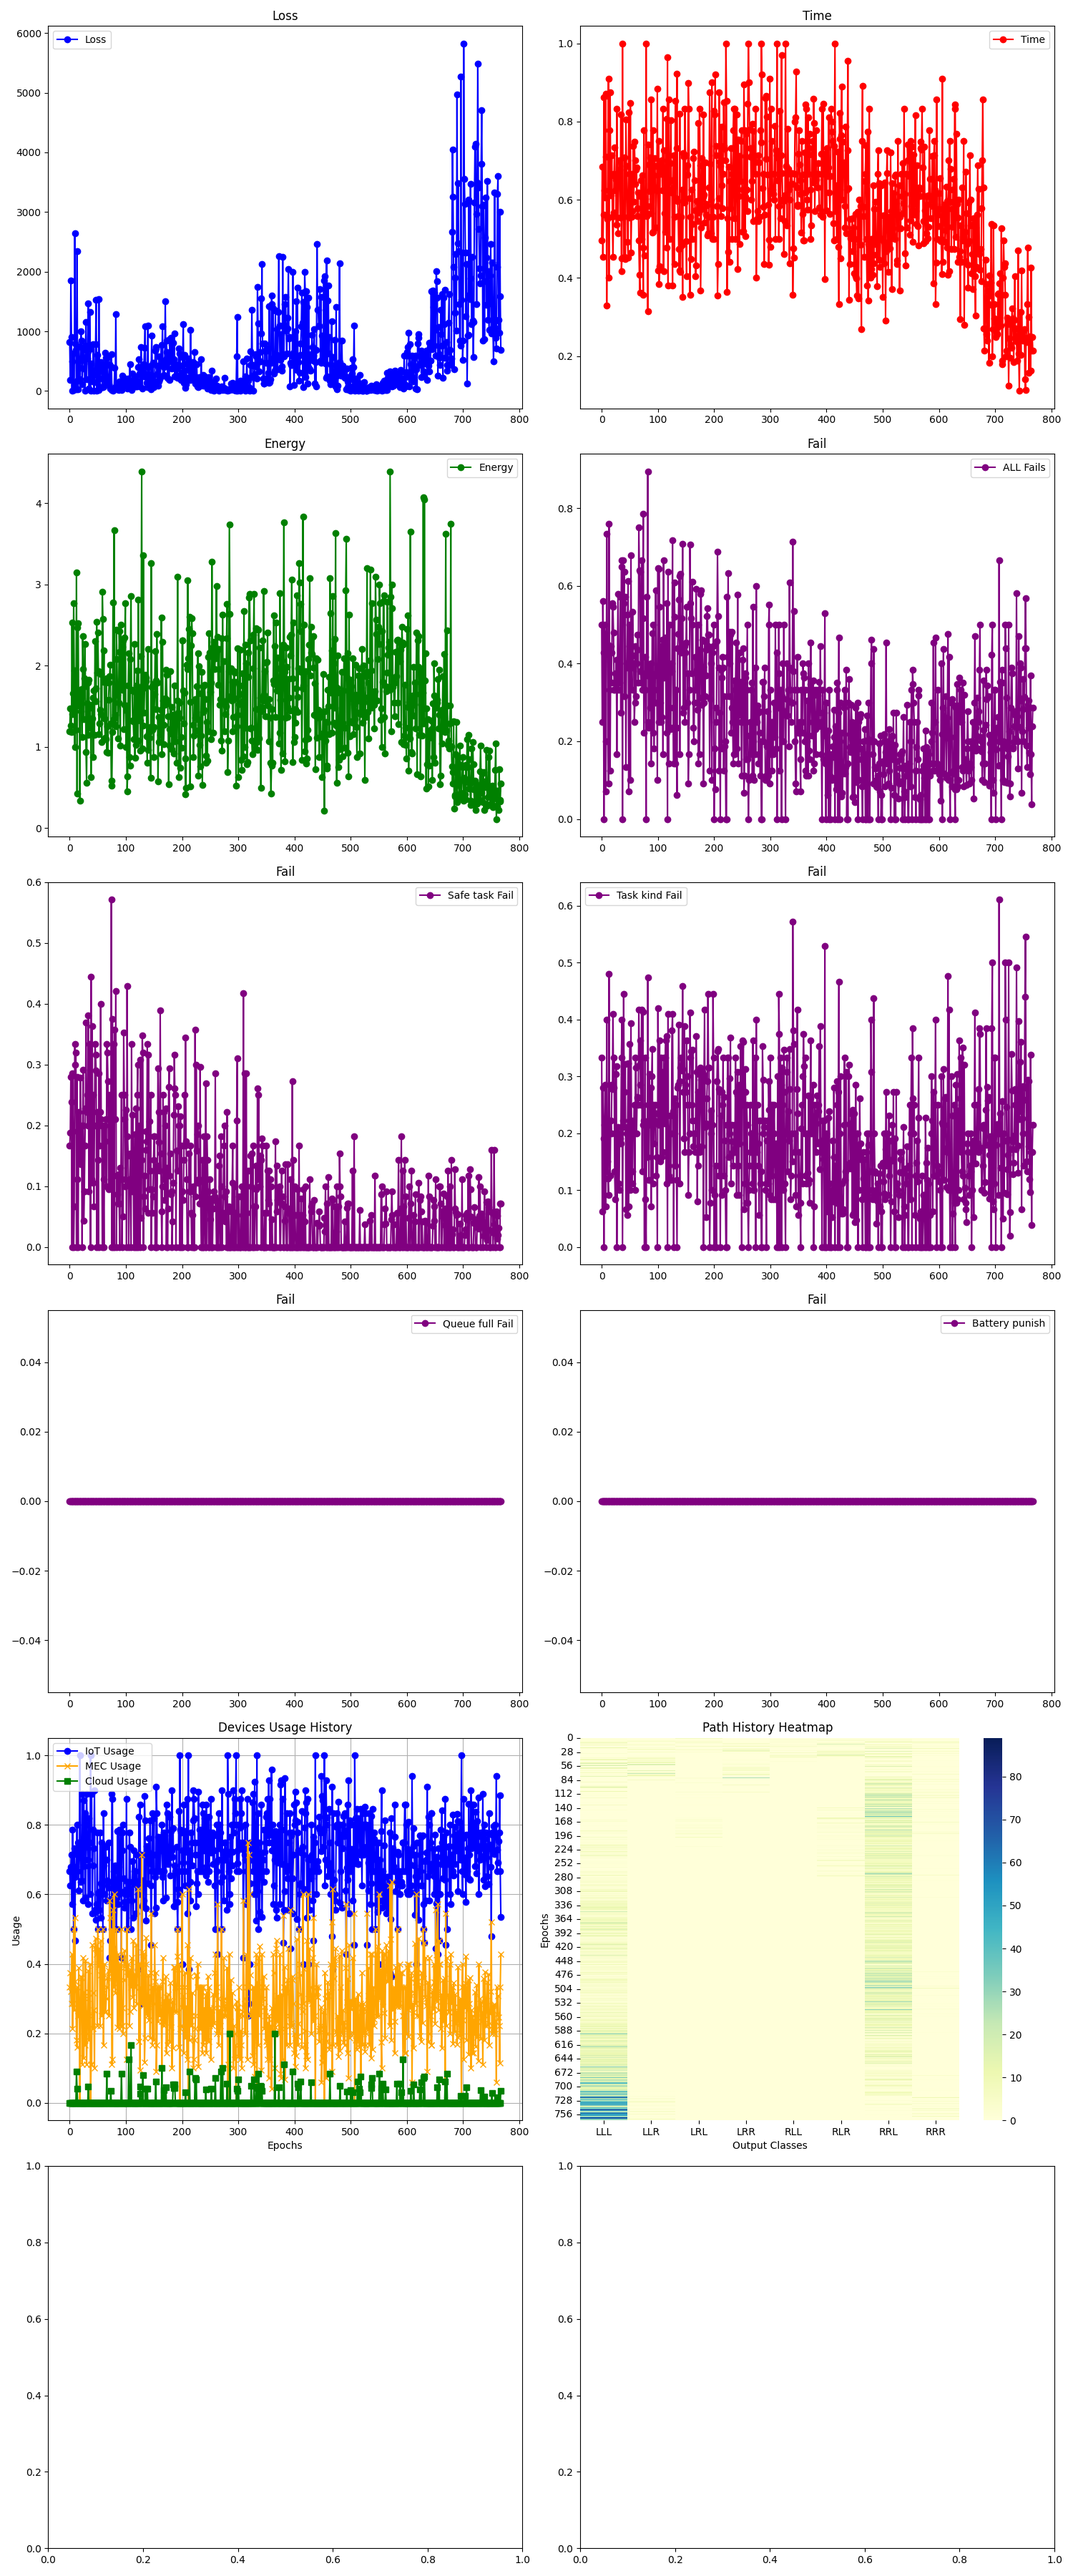
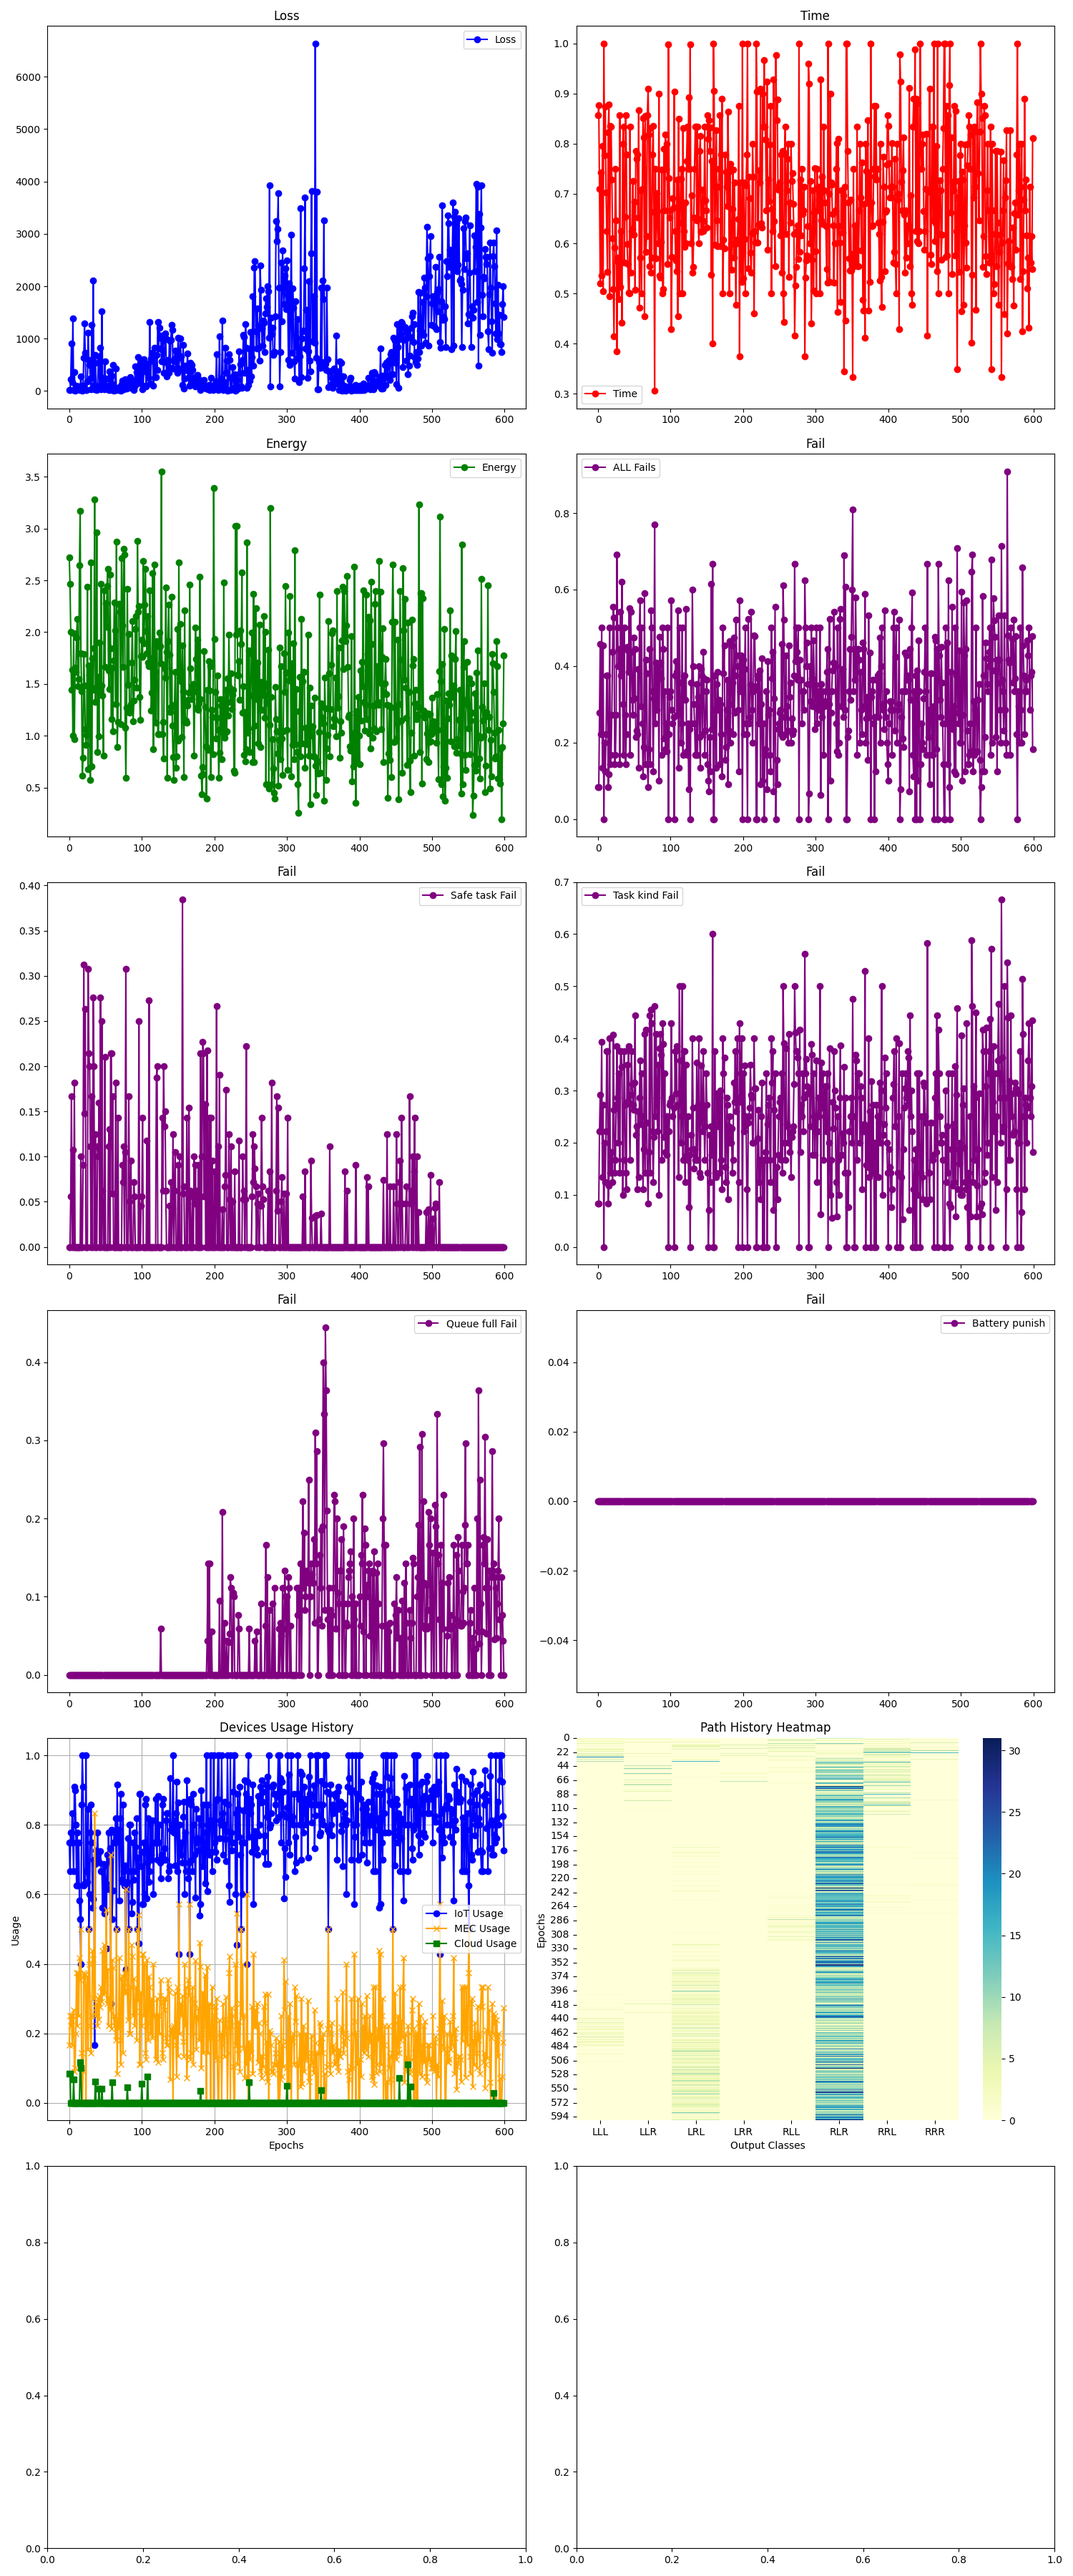
bugfix for increasing time + objectives

diff --git a/environment/state.py b/environment/state.py
@@ -68,16 +68,26 @@ class State:
         except:
             return
     
-    def clean_tasks(self):
+    def clean_jobs(self):
+        return
+        removing_items = []
         for job in self.jobs.values():
-            for task in job['runningTasks']:
-                self.__task_finished(task)
+            if job['remainingDeadline'] < 0 and job['id'] not in removing_items:
+                print("removed deadline")
+                removing_items.append(job['id'])
+                
+        for item in removing_items:
+            if item in self.jobs.keys():
+                del self.jobs[item]
+        
     ##### Functionality
     def apply_action(self, pe_ID, core_i, freq, volt, task_ID, utilization=None, diversity=None, gin=None):
         try:
             pe_dict = self.PEs[pe_ID]
             pe = self.db_devices[pe_ID]
             task = self.db_tasks[task_ID]
+            if task["job_id"] not in self.jobs.keys():
+                return 0, [0,0,0,0], 0, 0
             job_dict = self.jobs[task["job_id"]]
         except:
             print("Retry apply action")
@@ -98,7 +108,7 @@ class State:
             if task["task_kind"] not in pe["acceptable_tasks"]:
                 fail_flags[1] = 1
             if queue_index == -1 and core_index == -1:
-                return sum(fail_flags) * reward_function(punish=True), fail_flags, 0, 0
+                fail_flags[2] = 1
 
             if sum(fail_flags) > 0:
                 return sum(fail_flags) * reward_function(punish=True), fail_flags, 0, 0
@@ -157,33 +167,34 @@ class State:
         #   4. calling the preprocessor to update the agent queue based on the state
         self.window_manager.run()
         self.__update_jobs(manager)
+        # self.clean_jobs()
         self.__update_PEs()
         self.preprocessor.run()
 
         # displaying the live status of the state
-        if self.display:
+        if self.display :
             print("PEs::")
             pe_data = {}
-            for pe_id, pe in self.get_PEs().items():
+            for pe_id, pe in enumerate(self.PEs):
                 pe_data[pe_id] = {
-                    "id": pe["id"],
-                    "type": pe["type"],
-                    "batteryLevel": pe["batteryLevel"],
-                    "occupiedCores": list(pe["occupiedCores"]),
-                    "energyConsumption": list(pe["energyConsumption"]),
+                    "id": pe_id,
+                    # "type": pe["type"],
+                    # "batteryLevel": pe["batteryLevel"],
+                    # "occupiedCores": list(pe["occupiedCores"]),
+                    # "energyConsumption": list(pe["energyConsumption"]),
                     "queue": [list(core_queue) for core_queue in pe["queue"]]
                 }
             print('\033[94m', pd.DataFrame(pe_data), '\033[0m', '\n')
 
             print("Jobs::")
             job_data = {}
-            for job_id, job in self.get_jobs().items():
+            for job_id, job in self.jobs.items():
                 job_data[job_id] = {
-                    "task_count": job["task_count"],
-                    "finishedTasks": list(job["finishedTasks"]),
+                    # "task_count": job["task_count"],
+                    # "finishedTasks": list(job["finishedTasks"]),
                     "runningTasks": list(job["runningTasks"]),
-                    "remainingTasks": list(job["remainingTasks"]),
-                    "remainingDeadline": job["remainingDeadline"]
+                    # "remainingTasks": list(job["remainingTasks"]),
+                    # "remainingDeadline": job["remainingDeadline"]
                 }
             print('\033[92m', pd.DataFrame(job_data), '\033[0m', "\n")
 
@@ -199,12 +210,18 @@ class State:
         self.__add_new_active_jobs(self.task_window, manager)
 
         removing_items = []
-        for job in self.jobs.values():
+        for job_id in list(self.jobs.keys()):
+            job = self.jobs[job_id]
             # decreasing the deadline of the jobs by 1 cycle
-            job["remainingDeadline"] -= 1
+            old_deadline = job["remainingDeadline"]
+            updated_job = dict(job)
+            updated_job["remainingDeadline"] = old_deadline - 1
+            
+            # Replace the old dictionary in the manager.dict()
+            self.jobs[job_id] = updated_job
 
             # removing the finished jobs from the state
-            if  len(job["runningTasks"]) + len(job["finishedTasks"]) == job["task_count"]:
+            if  len(job["finishedTasks"]) == job["task_count"]:
                 removing_items.append(job['id'])
 
         for item in removing_items:
@@ -268,7 +285,7 @@ class State:
         for core_index, core_queue in enumerate(pe["queue"]):
             first_task = core_queue[0]
 
-            if first_task[0] == 0:
+            if first_task[0] <= 0:
                 # Removing the finished task from queue
                 if first_task[1] != -1:
                     self.__task_finished(first_task[1])
@@ -316,7 +333,6 @@ class State:
             if pe['type'] == 'cloud' or True:
                 for core_index, queue in enumerate(pe["queue"]):
                     if queue[0][1] == -1:
-                        
                         return 0, core_index, 0
             return -1, -1, -1
         except:

diff --git a/configs.py b/configs.py
@@ -1,6 +1,6 @@
 jobs_config = {
     "num_jobs": 10000,
-    "max_deadline": 2000,
+    "max_deadline": 100,
     "max_task_per_depth": 2,
     "max_depth": 5,
     "task": {
@@ -8,7 +8,7 @@ jobs_config = {
         "input_size": [1, 1001],
         "output_size": [1, 1001],
         "computational_load": [1, 1001],
-        "safe_measurement": [0.5, 0.5],
+        "safe_measurement": [0.8, 0.2],
         "task_kinds": [1, 2, 3, 4]
     },
     "max_num_parents_dag": 1,
@@ -19,7 +19,7 @@ jobs_config = {
 devices_config = {
     "iot": {
         "num_devices": 100,
-        "num_cores": [4, 8, 16],
+        "num_cores": [4,8,16],
         "voltage_frequencies": [
             (10e6, 1.8),
             (20e6, 2.3),
@@ -40,7 +40,7 @@ devices_config = {
     },
     "mec": {
         "num_devices": 50,
-        "num_cores": [16, 32, 64],
+        "num_cores": [16,32,64],
         "voltage_frequencies": [
             (600 * 1e6, 0.8),
             (750 * 1e6, 0.825),
@@ -131,7 +131,7 @@ learning_config = {
 
     "ppo_epsilon": 0.2,
     "gae_lambda": 0.95,
-    "ppo_epochs": 5,
+    "ppo_epochs": 10,
 
     "critic_hidden_layer_num": 1,
     "critic_hidden_layer_dim": 256,
@@ -160,8 +160,8 @@ learning_config = {
 
 
 environment_config = {
-    "multi_agent": 32,
-    "time_out_counter": 50,
-    "window": {"size": 200, "max_jobs": 40, "clock": 10},
+    "multi_agent": 15,
+    "time_out_counter": 100,
+    "window": {"size": 100, "max_jobs": 20, "clock": 10},
     "display":False
 }

diff --git a/model/agent.py b/model/agent.py
@@ -70,7 +70,7 @@ class Agent(mp.Process):
                 continue
             
             self.t_counter += 1
-            if self.t_counter >= self.time_out_counter:
+            if self.t_counter >= self.time_out_counter and len(current_job["runningTasks"]) ==0 and len(current_job["remainingTasks"]) ==0 :
                 self._timeout_on_job()
                 continue
             
@@ -185,7 +185,7 @@ class Agent(mp.Process):
             loss = self.local_actor_critic.calc_loss()
 
             self.global_optimizer.zero_grad()
-            loss.backward(retain_graph=(epoch < learning_config['ppo_epochs'] - 1))
+            loss.backward(retain_graph=(epoch <= learning_config['ppo_epochs'] - 1))
 
             torch.nn.utils.clip_grad_norm_(self.global_actor_critic.parameters(), max_norm=1.0)
 
@@ -201,8 +201,10 @@ class Agent(mp.Process):
 
     def _timeout_on_job(self):
         """Handle timeout when a job is taking too long."""
-        print(f"Job {self.assigned_job} TIME OUT")
+        print("JOB Stuck ",self.assigned_job)
         self.state.remove_job(self.assigned_job)
+        if len(self.local_actor_critic.states)>1:
+            self.update()
         self.assigned_job = None
         
     def _select_core_dvfs(self, selected_device, selected_core_dvfs_index):

diff --git a/main.py b/main.py
@@ -8,10 +8,10 @@ if __name__ == '__main__':
     mp.set_start_method("spawn")
     torch.manual_seed(42)
     np.random.seed(42)
-    # pd.set_option('display.max_rows', None)
-    # pd.set_option('display.max_columns', None)
-    # pd.set_option('display.max_colwidth', None)
-    # pd.options.display.float_format = '{:,.5f}'.format
+    pd.set_option('display.max_rows', None)
+    pd.set_option('display.max_columns', None)
+    pd.set_option('display.max_colwidth', None)
+    pd.options.display.float_format = '{:,.5f}'.format
     
     
     env = Environment()

diff --git a/environment/window_manager.py b/environment/window_manager.py
@@ -23,11 +23,10 @@ class WindowManager:
             self.current_cycle += 1
             self.state.task_window =[]
         else:
-            if len(self.state.jobs) > 100:
+            if len(self.state.jobs) > 50:
                 return
             self.current_cycle = 0
             self.state.task_window = self.get_window()
-            self.state.clean_tasks()
 
     def get_window(self):
         # return the entire pool or a protion of it(window size)

diff --git a/data/gen.py b/data/gen.py
@@ -64,7 +64,7 @@ class Generator:
                 "id": job_id,
                 "task_count": len(random_dag.nodes),
                 "tasks_ID": [task["id"] for task in tasks_data if task["job_id"] == job_id],
-                "deadline": np.random.randint(1, max_deadline),
+                "deadline": np.random.randint(max_deadline-5, max_deadline+5),
             }
             jobs_data.append(job_info)
 
